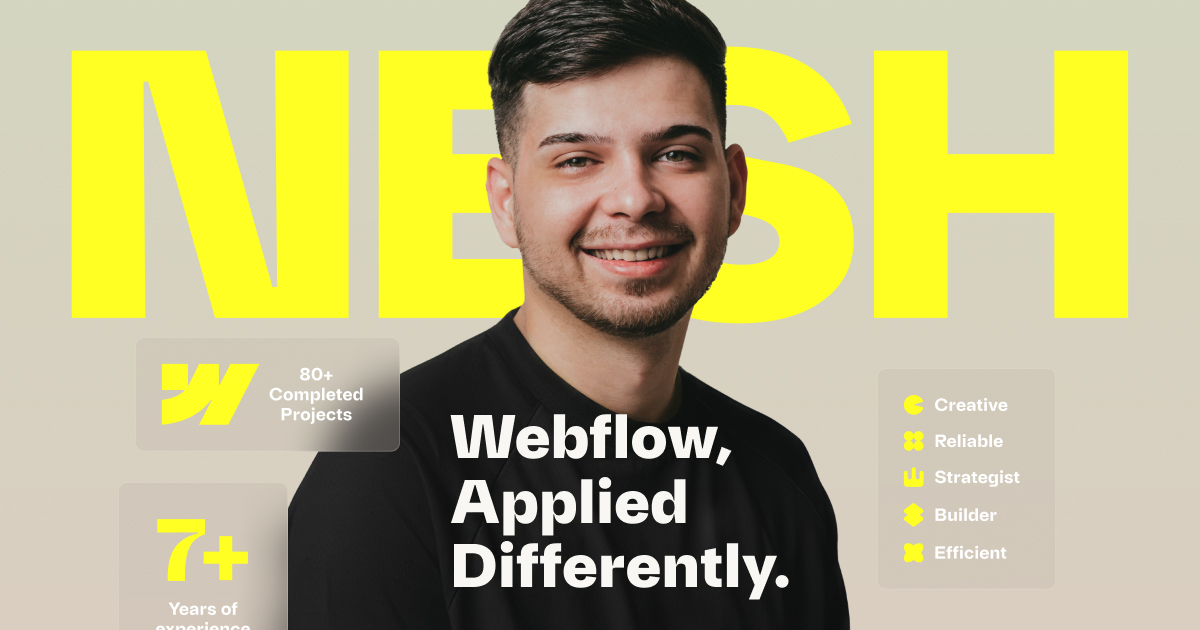
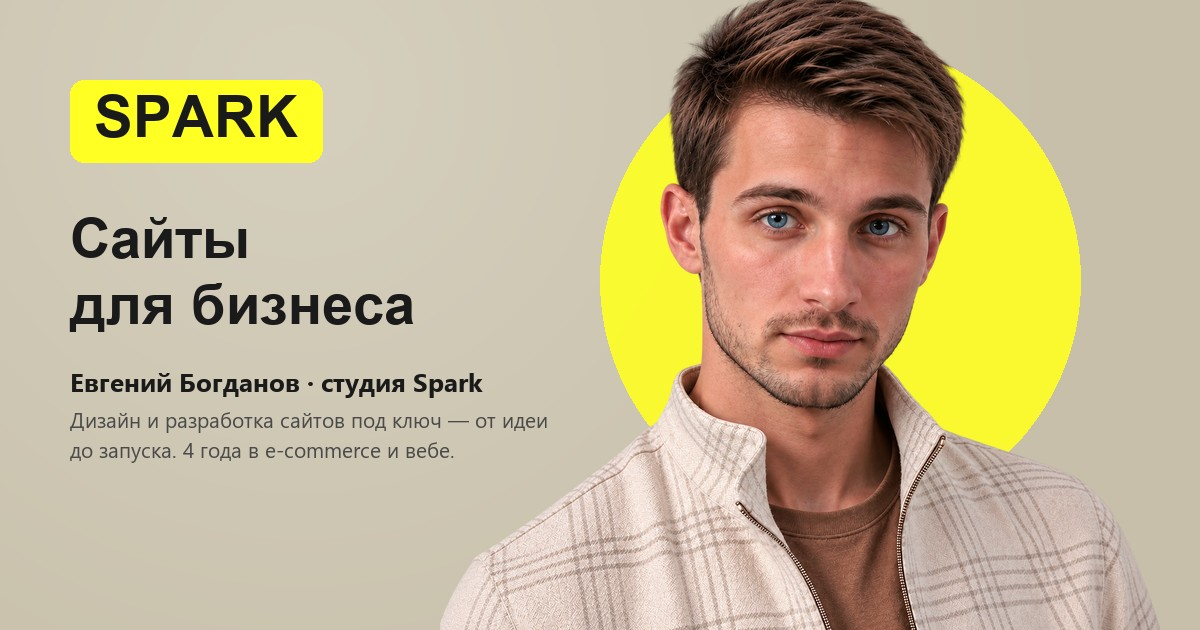
Fix Open Graph / social preview: replace template's OG image with a real branded card, add missing meta tags
The og:image was the original Webflow template seller's own promo photo
(different person, "NESH" branding) - replaced with a custom 1200x630
card built from the site's actual hero photo and brand colors.
Also added twitter:image (was missing entirely), og:image dimensions,
og:url, og:site_name, og:locale, and switched og:image/twitter:image to
absolute URLs for reliable crawler resolution.

diff --git a/index.html b/index.html
@@ -1,5 +1,5 @@
 <!DOCTYPE html>
-<html data-wf-page="691d7ca014d0280ebe2d4114" data-wf-site="691d7c9f14d0280ebe2d4108" class="w-mod-js w-mod-ix3"><head><style>.wf-force-outline-none[tabindex="-1"]:focus{outline:none;}</style><meta charset="utf-8"><link href="https://cdn.prod.website-files.com" rel="preconnect"><title>Евгений Богданов - Full-stack разработчик и студия Spark</title><meta content="Дизайн и разработка сайтов под ключ - от идеи до запуска. 4 года в e-commerce и вебе, 100% репутация. Студия Spark - Евгений Богданов." name="description"><meta content="Евгений Богданов - Full-stack разработчик и студия Spark" property="og:title"><meta content="Дизайн и разработка сайтов под ключ - от идеи до запуска. 4 года в e-commerce и вебе, 100% репутация. Студия Spark - Евгений Богданов." property="og:description"><meta content="images/OpenGraph.jpg" property="og:image"><meta content="Евгений Богданов - Full-stack разработчик и студия Spark" name="twitter:title"><meta content="Дизайн и разработка сайтов под ключ - от идеи до запуска. 4 года в e-commerce и вебе, 100% репутация. Студия Spark - Евгений Богданов." name="twitter:description"><meta property="og:type" content="website"><meta content="summary_large_image" name="twitter:card"><meta content="width=device-width, initial-scale=1" name="viewport"><meta content="Webflow" name="generator"><link href="css/nesh-staging.webflow.shared.bea9f6170.min.css" rel="stylesheet" type="text/css"><style>html.w-mod-js:not(.w-mod-ix3) :is(.popup-card-wrap.is-active-card) {visibility: hidden !important;}</style><script type="text/javascript">!function(o,c){var n=c.documentElement,t=" w-mod-";n.className+=t+"js",("ontouchstart"in o||o.DocumentTouch&&c instanceof DocumentTouch)&&(n.className+=t+"touch")}(window,document);</script><link href="images/favicon.png" rel="shortcut icon" type="image/x-icon"><link href="images/webclip.png" rel="apple-touch-icon"><script type="application/ld+json">
+<html data-wf-page="691d7ca014d0280ebe2d4114" data-wf-site="691d7c9f14d0280ebe2d4108" class="w-mod-js w-mod-ix3"><head><style>.wf-force-outline-none[tabindex="-1"]:focus{outline:none;}</style><meta charset="utf-8"><link href="https://cdn.prod.website-files.com" rel="preconnect"><title>Евгений Богданов - Full-stack разработчик и студия Spark</title><meta content="Дизайн и разработка сайтов под ключ - от идеи до запуска. 4 года в e-commerce и вебе, 100% репутация. Студия Spark - Евгений Богданов." name="description"><meta content="Евгений Богданов - Full-stack разработчик и студия Spark" property="og:title"><meta content="Дизайн и разработка сайтов под ключ - от идеи до запуска. 4 года в e-commerce и вебе, 100% репутация. Студия Spark - Евгений Богданов." property="og:description"><meta content="https://evgeny-spark-designs.github.io/Portfolio/images/OpenGraph.jpg" property="og:image"><meta content="1200" property="og:image:width"><meta content="630" property="og:image:height"><meta content="https://evgeny-spark-designs.github.io/Portfolio/" property="og:url"><meta content="Spark - Евгений Богданов" property="og:site_name"><meta content="ru_RU" property="og:locale"><meta content="Евгений Богданов - Full-stack разработчик и студия Spark" name="twitter:title"><meta content="Дизайн и разработка сайтов под ключ - от идеи до запуска. 4 года в e-commerce и вебе, 100% репутация. Студия Spark - Евгений Богданов." name="twitter:description"><meta content="https://evgeny-spark-designs.github.io/Portfolio/images/OpenGraph.jpg" name="twitter:image"><meta property="og:type" content="website"><meta content="summary_large_image" name="twitter:card"><meta content="width=device-width, initial-scale=1" name="viewport"><meta content="Webflow" name="generator"><link href="css/nesh-staging.webflow.shared.bea9f6170.min.css" rel="stylesheet" type="text/css"><style>html.w-mod-js:not(.w-mod-ix3) :is(.popup-card-wrap.is-active-card) {visibility: hidden !important;}</style><script type="text/javascript">!function(o,c){var n=c.documentElement,t=" w-mod-";n.className+=t+"js",("ontouchstart"in o||o.DocumentTouch&&c instanceof DocumentTouch)&&(n.className+=t+"touch")}(window,document);</script><link href="images/favicon.png" rel="shortcut icon" type="image/x-icon"><link href="images/webclip.png" rel="apple-touch-icon"><script type="application/ld+json">
 {
   "@context": "https://schema.org",
   "@type": "ProfessionalService",

diff --git a/page.html b/page.html
@@ -1,5 +1,5 @@
 <!DOCTYPE html>
-<html data-wf-page="691d7ca014d0280ebe2d4114" data-wf-site="691d7c9f14d0280ebe2d4108" class="w-mod-js w-mod-ix3"><head><style>.wf-force-outline-none[tabindex="-1"]:focus{outline:none;}</style><meta charset="utf-8"><link href="https://cdn.prod.website-files.com" rel="preconnect"><title>Евгений Богданов - Full-stack разработчик и студия Spark</title><meta content="Дизайн и разработка сайтов под ключ - от идеи до запуска. 4 года в e-commerce и вебе, 100% репутация. Студия Spark - Евгений Богданов." name="description"><meta content="Евгений Богданов - Full-stack разработчик и студия Spark" property="og:title"><meta content="Дизайн и разработка сайтов под ключ - от идеи до запуска. 4 года в e-commerce и вебе, 100% репутация. Студия Spark - Евгений Богданов." property="og:description"><meta content="images/OpenGraph.jpg" property="og:image"><meta content="Евгений Богданов - Full-stack разработчик и студия Spark" name="twitter:title"><meta content="Дизайн и разработка сайтов под ключ - от идеи до запуска. 4 года в e-commerce и вебе, 100% репутация. Студия Spark - Евгений Богданов." name="twitter:description"><meta property="og:type" content="website"><meta content="summary_large_image" name="twitter:card"><meta content="width=device-width, initial-scale=1" name="viewport"><meta content="Webflow" name="generator"><link href="css/nesh-staging.webflow.shared.bea9f6170.min.css" rel="stylesheet" type="text/css"><style>html.w-mod-js:not(.w-mod-ix3) :is(.popup-card-wrap.is-active-card) {visibility: hidden !important;}</style><script type="text/javascript">!function(o,c){var n=c.documentElement,t=" w-mod-";n.className+=t+"js",("ontouchstart"in o||o.DocumentTouch&&c instanceof DocumentTouch)&&(n.className+=t+"touch")}(window,document);</script><link href="images/favicon.png" rel="shortcut icon" type="image/x-icon"><link href="images/webclip.png" rel="apple-touch-icon"><script type="application/ld+json">
+<html data-wf-page="691d7ca014d0280ebe2d4114" data-wf-site="691d7c9f14d0280ebe2d4108" class="w-mod-js w-mod-ix3"><head><style>.wf-force-outline-none[tabindex="-1"]:focus{outline:none;}</style><meta charset="utf-8"><link href="https://cdn.prod.website-files.com" rel="preconnect"><title>Евгений Богданов - Full-stack разработчик и студия Spark</title><meta content="Дизайн и разработка сайтов под ключ - от идеи до запуска. 4 года в e-commerce и вебе, 100% репутация. Студия Spark - Евгений Богданов." name="description"><meta content="Евгений Богданов - Full-stack разработчик и студия Spark" property="og:title"><meta content="Дизайн и разработка сайтов под ключ - от идеи до запуска. 4 года в e-commerce и вебе, 100% репутация. Студия Spark - Евгений Богданов." property="og:description"><meta content="https://evgeny-spark-designs.github.io/Portfolio/images/OpenGraph.jpg" property="og:image"><meta content="1200" property="og:image:width"><meta content="630" property="og:image:height"><meta content="https://evgeny-spark-designs.github.io/Portfolio/" property="og:url"><meta content="Spark - Евгений Богданов" property="og:site_name"><meta content="ru_RU" property="og:locale"><meta content="Евгений Богданов - Full-stack разработчик и студия Spark" name="twitter:title"><meta content="Дизайн и разработка сайтов под ключ - от идеи до запуска. 4 года в e-commerce и вебе, 100% репутация. Студия Spark - Евгений Богданов." name="twitter:description"><meta content="https://evgeny-spark-designs.github.io/Portfolio/images/OpenGraph.jpg" name="twitter:image"><meta property="og:type" content="website"><meta content="summary_large_image" name="twitter:card"><meta content="width=device-width, initial-scale=1" name="viewport"><meta content="Webflow" name="generator"><link href="css/nesh-staging.webflow.shared.bea9f6170.min.css" rel="stylesheet" type="text/css"><style>html.w-mod-js:not(.w-mod-ix3) :is(.popup-card-wrap.is-active-card) {visibility: hidden !important;}</style><script type="text/javascript">!function(o,c){var n=c.documentElement,t=" w-mod-";n.className+=t+"js",("ontouchstart"in o||o.DocumentTouch&&c instanceof DocumentTouch)&&(n.className+=t+"touch")}(window,document);</script><link href="images/favicon.png" rel="shortcut icon" type="image/x-icon"><link href="images/webclip.png" rel="apple-touch-icon"><script type="application/ld+json">
 {
   "@context": "https://schema.org",
   "@type": "ProfessionalService",
